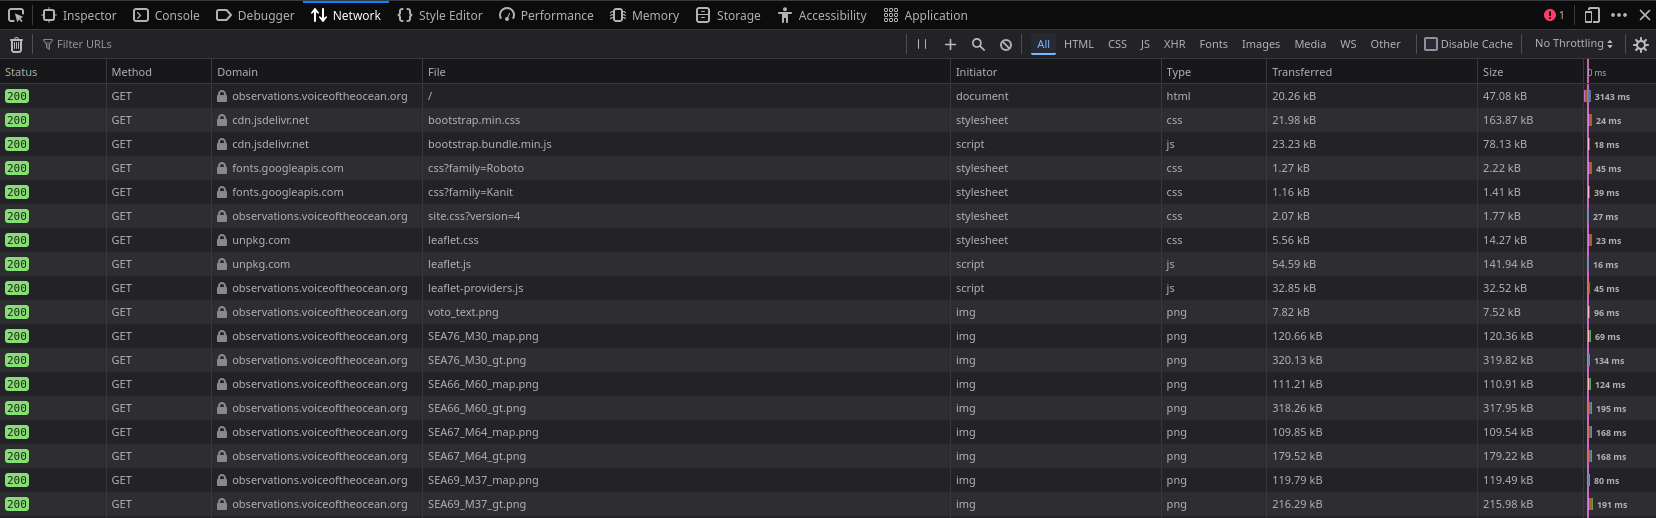
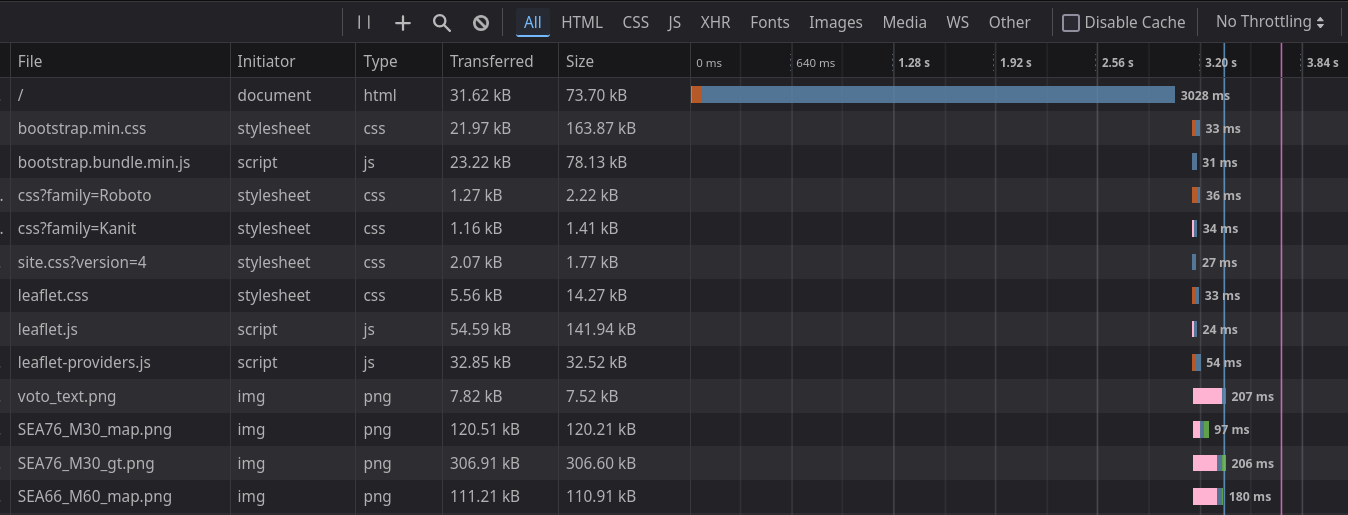
proofreading is for cowards

diff --git a/content/articles/flask_performant.md b/content/articles/flask_performant.md
@@ -2,19 +2,22 @@ Title: Speeding up flask performance
 Date: 2024-11-04 11:30
 Modified: 2024-11-04 11:30
 Category: FOSS
-Tags:  linux, python, software, foss, automation, web, cache, tutorial
-Slug: cache_money
+Tags: python, software, foss, automation, web, cache, tutorial, flask
+Slug: flask_performant
 Summary: How I went about profiling and optimising our data portal for a 4 X speedup of load times
 
 # Summary
 A worked example of how I reduced the page load on the VOTO observations portal from about 4 seconds to 1 second by improving use of the backend database and implementing a simple server-side cache.
+
 Website stack: python, flask, mongodb, boostrap, leaflet maps, sellotape, prayers
+
 Methods used: inspect element, firefox network profiler, ipython `%%timeit` function, decorators, json
+
 Related articles: [Overview of python-flask with leaflet maps](/flask_leaflet.html)
 
 # Motivation
 
-I have been aware for some time that the landing page of our observations portal is painfully slow to load (around 4 seconds). This has steadily become worse as the total number of platforms we have deployed has grown, as has the database that must be queired when users visit this webpage. As various web-dev people will tell you, if your web page takes a long page to load, people will not visit it! Also it seems pretty wasteful, a slow loading page is indicative of inefficiencies. We don't want to waste CPU cycles and come across as incompetent!
+I have been aware for some time that the landing page of our [observations portal](https://observations.voiceoftheocean.org/) is painfully slow to load (around 4 seconds). This has steadily become worse as the total number of platforms we have deployed has grown, as has the database that must be queried when users visit this webpage. As various web-dev people will tell you, if your web page takes a long page to load, people will not visit it Also it seems pretty wasteful. A slow loading page is indicative of inefficiencies. We don't want to waste CPU cycles and be laughed at by other code slingers!
 
 So how do we speed this up?
 
@@ -22,26 +25,26 @@ So how do we speed this up?
 
 ### Inspect web page
 
- First we need to find out which part of the request is causing the slow page load. To do this we inspect the web page with Inspect Element ([not a crime](https://mango.pdf.zone/finding-former-australian-prime-minister-tony-abbotts-passport-number-on-instagram#were-not-done-just-because-a-web-page-says-were-done)) and do a hard refresh of the page. We can then cehck the "Network" tab to see how long various elements of the page took to load.
+ First we need to find out which part of the request is causing the slow page load. To do this we inspect the web page with firefox Inspect Element (which is [not a crime](https://mango.pdf.zone/finding-former-australian-prime-minister-tony-abbotts-passport-number-on-instagram#were-not-done-just-because-a-web-page-says-were-done)) and do a hard refresh of the page (gotta clear out that browser cache). We can then check the "Network" tab to see how long various elements of the page took to load.
 
-Here we can see that the basically everything loads in milliseconds, except for the page itself index.html which takes over 3 seconds. This means that the slow performance is in the page, not loading other resources like the leaflet javascript library that drives the map or the images. 
+Here we can see that basically everything loads in milliseconds, except for the page itself index.html which takes over 3 seconds. This means that the slow performance is in the page, not loading other resources like the leaflet javascript library that drives the map or the images of near real time glider data. 
 
 ![loading times](../images/load.png)
 
-We also see that index.html is only 20 kB, so it is extremely unlikely that the slow load is due to transfer time.s WE can see pic images 10 times as large loading in less than 200 ms.
+We also see that index.html is only 30 kB, so it is extremely unlikely that the slow load is due to transfer times. We can see png images 10 times as large loading in 200 ms.
 
 ### Profiling
 
-Having established that it is the creation of the webpage that is the prime culprit, let's find the parts of the code that cause it. An admission: I've never used a real code profiler. There are many purpose built tools for such things, but for me, I've found it simpler to just paste the code into a jupyter notebook and run the magic `%%timeit` decorator on functions to track down where code is going slow
+Having established that it is the creation of the webpage that is the prime culprit, let's find the parts of the code that cause it. An admission: I've never used a real code profiler. There are many purpose built tools for such things, but for me, I've found it simpler to just paste the code into a jupyter notebook and run the magic `%%timeit` decorator on functions to track down where code is going slow. Let's have a look at the class Basic, which generates the html response to the user request.
 
 ![profile code](../images/profile.png)
 
-Here we can see that the two methods `totals` and `check_missions` of the `Basic` class are the main causes of the slowdown. Let's try to speed up these methods.
+Here we can see that the two methods `totals` and `check_missions` of the `Basic` class are the main causes of the slowdown, taking a whole 2.5 seconds between them. Let's try to speed up these methods.
 
 # Fixing
 ### Method one: use the database properly
 
-`totals` and `check_missions` are calling functions under the hood, `totals` and `recent_glidermissions`, both from the `voto.services.mission_service`. These functions both work by making a series of calls to the mongodb database and have big for loops. Here's `recent_glidermissions` before the fix:
+`totals` and `check_missions` are calling functions under the hood, `calculate_totals` and `recent_glidermissions`, both from the `voto.services.mission_service`. These functions both work by making a series of calls to the mongodb database and have big for loops. Here's `recent_glidermissions` before the fix:
 
 ```python
 def recent_glidermissions_old(timespan=datetime.timedelta(hours=24), baltic_only=True):
@@ -59,7 +62,7 @@ def recent_glidermissions_old(timespan=datetime.timedelta(hours=24), baltic_only
     return recent_gliders, recent_missions
 ```
 
-It grabs all the missions from the database (240 at time of writing), with all their metadata, then loops over them. It's just looking for missions which have an "end" (ie most recent data point) within the last 24 hours and are situated within the Baltic. It takes the glider number and mission number, appends those to lists, then returns those lists.
+It grabs all the missions from the database (240 at time of writing), with all their metadata, then loops over them. It's just looking for missions which have an "end" (i.e. most recent data point) within the last 24 hours and are situated within the Baltic. It takes the glider number and mission number, appends those to lists, then returns those lists.
 
 This works, but is highly inefficient! It's not an issue when you run it once during development (it takes just over a second) but when this is being run on **every visit to our home page** it adds up. Here's the code after optmising:
 
@@ -77,7 +80,7 @@ def recent_glidermissions_new(timespan=datetime.timedelta(hours=24), baltic_only
     return df.glider, df.mission
 ```
 
-Now, rather than grabbing all the missions from the database and looping over them, we have mongdb do the filtering. `end__gte` is how pymongo encodes Greater Than or Equal, iei >= our time cut of 24 hours ago. We also check if the mission has an assigned basin (that's how we know it's in the Baltic). We only return mission number and glider number, not all the fields for these missions, and we pass them to pandas to make a DataFrame from the list of dicts, rather than looping over the objects to extract these values. The new code is not only more concise, it is *40 times faster*
+Now, rather than grabbing all the missions from the database and looping over them, we have mongdb do the filtering. `end__gte` is how pymongo encodes Greater Than or Equal, i.e. >= our time cut of 24 hours ago. We also check if the mission has an assigned basin (that's how we know it's in the Baltic). We only return mission number and glider number, not all the fields for these missions, and we pass them to pandas to make a DataFrame from the list of dicts, rather than looping over the objects to extract these values. The new code is not only more concise, it is *40 times faster*.
 
 ![profile code](../images/speedup.png)
 
@@ -85,11 +88,11 @@ We also run a check to reassure ourselves that the old function and the new one 
 
 ### Method two: Poor man's caching
 
-The second function causing issues is `totals`. This is a long messy function that calculates a bunch of stats that managers love to see: total time of gliders in the water, number of dives completed, horizontal and vertical distances travelled etc. Because these are stats across the whole database, it's much harder to find database efficiencies as we did for the recent glider missions function. But, as these are totals stats for the 4 + years of operation, they don't need to be updated every time a user refreshes the page. This seems like a good candidate for caching data.
+The second function causing issues is `calculate_totals`. This is a long messy function that calculates a bunch of stats that managers love to see: number of gliders deplyed, total cumulative sea time, number of dives completed, horizontal and vertical distances travelled etc. Because these are stats across the whole database, it's much harder to find database efficiencies as we did for the recent glider missions function. But, as these are totals stats for the 4 + years of operation, they don't need to be updated every time a user refreshes the page! This seems like a good candidate for caching data.
 
-I looked at a few built in methods, like Python's [functools.lru_cache](https://docs.python.org/3.9/library/functools.html#functools.lru_cache). This caches a return value for *n* calls, so the stats would be recalculate every time the *nth* page visit occurred. This didn't really fit my use case though, I want calculate these stats at a set interval, say once each day, not have the number of refreshes dependant on how frequently the page is visited.  
+I looked at a few built in methods, like Python's [functools.lru_cache](https://docs.python.org/3.9/library/functools.html#functools.lru_cache). This caches a return value for *n* calls, so the stats would be recalculated every time the *nth* page visit occurred. This didn't really fit my use case though, I want calculate these stats at a set interval, say once each day, not have the number of refreshes dependant on how frequently the page is visited. I thought of combining it with some cache intervention or cron job, but decided against it as I'd probably break something.
 
-Then there are third party libraries like [cachetools](https://github.com/tkem/cachetools) which do have the capacity to set a time limit on cached items. But these contained warnings of thread safety, and I wasn't sure how this would interact with [uWSGI](https://uwsgi-docs.readthedocs.io/en/latest/) server that runs the website with multiple processes and threads.
+Then there are third party libraries like [cachetools](https://github.com/tkem/cachetools) which do have the capacity to set a time limit on cached items. But these contained warnings of thread safety, and I wasn't sure how this would interact with [uWSGI](https://uwsgi-docs.readthedocs.io/en/latest/) server that runs the website with multiple processes and threads. Also, I didn't want to add another external dependency if I could avoid it.
 
 Instead I opted for a far simpler solution where I use a json file as storage. In pseudocode the solution is:
 
@@ -104,20 +107,24 @@ def calculate_totals():
 		return stats
 ```
 
-This way, we only re-calculate the stats once every 24 hours. 
+This way, we only re-calculate the stats once every 24 hours. There are various checks so that if e.g. the cache file doesn't exits, is corrupted, missing values or stale, the function runs as originally designed then writes to the cache file.
 
 # Results
 
-The main web page now loads in less than 500 ms! The total page load is just over 1 second. Not bad for an afternoon's work.
+The main web page html loads in less than 500 ms! The total page load is just over 1 second. Not bad for an afternoon's work. We can now see that the pageload is comparable with the time it takes to load other assets, like the glider data plots and the map  tiles.
+
+![new loading times](../images/reload.png)
 
 I'm sure there are more elegant and efficient ways I could have solved this, but these methods worked and took me an afternoon to investigate and implement.
 
-Why didn't I do this before? Mostly because it wasn't a problem before. When I started this website we had been operating for a year with far fewer gliders in the water. The database was smaller, the pages more basic and expectations were lower. Just having a publicly viewable map and some pngs of near real time data was a huge win. I'm also aware of the pitfalls of premature optimisation, where you put a lot of time into improving something that turns out not to be a critical application/performance bottleneck. Performance isn't something anyone has asked me about (does anyone really care that the page took 4 seconds to load?) But I think it's important to take a little professional pride in these things. 
+### Why didn't I do this before? 
+
+Mostly because it wasn't a problem before. When I started this website we had been operating for a year with far fewer gliders in the water. The database was smaller, the pages more basic and expectations were lower. Just having a publicly viewable map and some pngs of near real time data was a huge win! I'm also aware of the pitfalls of premature optimisation, where you put a lot of time into improving something that turns out not to be a critical application/performance bottleneck. Performance isn't something anyone has asked me about (does anyone really care that the page took 4 seconds to load?) But I think it's important to take a little professional pride in these things. 
 # Reflection
 
-- Speeding stuff up is very pleasing. But I'm sure after this I would hit marginal gains, having made the big savings of 75 % time cut with these two interventions.
-- It's nice to have complete control over our data portal. Rather than needing to raise a ticket or kick the problem to another team I was able to remedy it myself in half a day. Though if we had a proper team of developers we probably wouldn't have shipped code with these performance flaws in the first place!!
-- There was no oceanography in this process. It would work for kind of any website with a similar stack and user needs. I guess I'm just a plain dev now?
+- Speeding stuff up is very pleasing. But I'm sure after this I would soon hit marginal gains, having made the big savings of 75 % time cut with these two interventions.
+- It's nice to have complete control over our data portal. Rather than needing to raise a ticket or kick the problem to another team I was able to remedy it myself in half a day. Though if we had a proper team of developers we probably wouldn't have shipped code with these performance flaws in the first place!
+- There was no oceanography in this process. It would work for kind of any website with a similar stack and user needs. I'm increasingly spending my time more as a developer and server maintainer. I think I'm ok with that.
 - I wrote this blog post while working on the problem, rather than after, to try to capture the process in the most accurate way possible. Inspired by the way [Julia Evans](https://jvns.ca/) writes her brilliant technical explainers.
 
 
